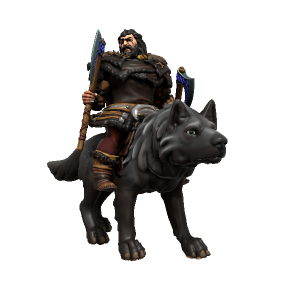
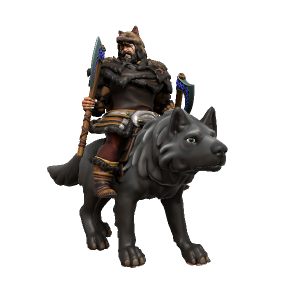
Uthgardt pictures

Changed region(s): [[0.15, 0.09, 0.78, 0.9]]

diff --git a/people.html b/people.html
@@ -88,7 +88,8 @@
     <section class="wiki-page">
       <h1 id="uthgardt">Uthgardt</h1>
 
-      <h3 id='haesta-þrumsdottr'>Fylkir Hæesta Þrumsdottr</h3>
+      <h3 id='haesta-thrumsdottr'>Fylkir Hæesta Þrumsdottr</h3>
+      <figure class="splashimg"><img src="assets/people/uthgardt/haesta-thrumsdottr.png"></figure>
       <p>The Jarl of the Thunderbeast Tribe is a grim figure, rarely known to smile and certainly never to joke. Even as
         a child, she was strangely quiet and focussed, owing to much of the mythos surrounding her. While she is a
         capable warrior, her real strength lies in strategy: She always seems to be ten steps ahead of her enemy.
@@ -96,7 +97,8 @@
       </p>
 
       <h3 id='slasverd-af-fylkir'>Freyr Slásverd af Fylkir</h3>
-      <p>Few in the land can say a bad word about Fylkir Haesta’s choice of husband, which is in part why he is her
+      <figure class="splashimg"><img src="assets/people/uthgardt/slasverd-af-fylkir.png"></figure>
+      <p>Few in the land can say a bad word about Fylkir Haesta's choice of husband, which is in part why he is her
         choice of husband. This beloved prince of the Sky Pony tribe is a charming, handsome and courageous favourite
         among both his own people and his adopted Thunderbeast kinsmen. How exactly this shining beacon of charm and
         good will maintains a relationship with the grim, serious Fylkir is a mystery, but their union joins together
@@ -105,7 +107,7 @@
 
       <h3 id='vidar-norgandr'>Páfi Viðar Norgandr</h3>
       <figure class="splashimg"><img src="assets/people/uthgardt/vidar-norgandr.png"></figure>
-      <p>Of those who oppose Jarl Haesta&#39;s claim to the Fylkiriate, the most prominent is the Jarl of the Grey Wolf
+      <p>Of those who oppose Jarl Haesta's claim to the Fylkiriate, the most prominent is the Jarl of the Grey Wolf
         Tribe. Vidar is a vicious acolyte of the Old Ways and has more than earned his byname &quot;Norgandr&quot;
         (Beast Of The North). He believes that Uthgar is best revered by tribes adhering to the dogma of their totems,
         and that a central authority of the Uthgardt faith would fundamentally undermine its culture. A physically
@@ -113,6 +115,7 @@
         horses in wolf form.</p>
 
       <h3 id='flugmaer-hrafndottr'>Jarl Flugmær Hrafndottr</h3>
+      <figure class="splashimg"><img src="assets/people/uthgardt/flugmaer-hrafndottr.png"></figure>
       <p>Flugmaer excells at two things: Flying and drinking. A tremendously skilled pilot, she rose to the role of Jarl
         at a young age after her Father, Jarl Hrafn, was shot down by Neverwinter forces during a raid on an outlying
         village. Flugmaer is a firm friend of Jarl Vidar of the Grey Wolf tribe, both politically and personally. While
@@ -120,14 +123,16 @@
         of the Old Ways, their romantic (or, at least, sexual) relationship is no secret.</p>
 
       <h3 id='örmar-silfurorð'>Jarl Örmar Silfurorð</h3>
-      <p>One of the lesser known Uthgardt traditions is the sport of &quot;flyting&quot;, in which participants take
+      <figure class="splashimg"><img src="assets/people/uthgardt/ormar-silfurord.png"></figure>
+      <p>One of the lesser known Uthgardt traditions is the sport of "flyting", in which participants take
         turns exchnging insults and personal jabs until one person surrenders. While there are certainly Uthgardt who
         surpass Jarl Örmar in physical strength, they are absolutely unrivalled at flyting. Their keen gaze and cutting
         wit can reduce even the burliest of bruisers to tears in a matter of minutes. While they acknowledge and offer
-        some support for Jarl Haesta&#39;s claim to the Fylkiriate, they have thus far held themselves back from any
+        some support for Jarl Haesta's claim to the Fylkiriate, they have thus far held themselves back from any
         major military maneuvers, exercising their influence slowly and strategically.</p>
 
       <h3 id='veida-vikinginn'>Jarl Veida Vikinginn</h3>
+      <figure class="splashimg"><img src="assets/people/uthgardt/veida-vikinginn.png"></figure>
       <p>When tucking their children into beds at night, parents along the Sword Coast tell their children stories of
         the fearsom Viking queen. Her red hair like fire, the scar running down the length of her face, her utter
         ruthlessness and lack of a moral compass. In truth, Veida is a fairly personable and honourable sort, who sees
@@ -153,7 +158,7 @@
       <h3 id='thraell-svikari'>Jarl Thraell Svikari</h3>
       <p>Jarl Thraell first came to the Uthgardt lands as a prisoner, but after winning his tournament fight he earned
         membership of the Sky Pony tribe. Those who were there remember a spectacular fight in which the charming,
-        skillful Chondothan captive danced rings around his opponents and left no survivors. Thraell’s talent for
+        skillful Chondothan captive danced rings around his opponents and left no survivors. Thraell's talent for
         spectacle and entertainment helped him quickly advance through this glory-obsessed tribe, eventually challenging
         his Jarl to a Holmgang and taking the Jarlship upon victory. He takes great joy and pride in commentating every
         tournament.</p>
@@ -162,14 +167,14 @@
       <p>Jarl Ormunda takes her name from a particularly odd legend of Uthgar, believed only by the Great Worm tribe:
         That, in addition to slaying the Great Worm at the Spine Of The World, he mated with it. As the only Uthgardt
         tribe with a single interrupted bloodline, Jarls of the Great Worm tribe proudly claim heritage from this
-        mating. Jarl Ormunda is a devout traditionalist, including and especially in the Great Worm Tribe&#39;s strange
+        mating. Jarl Ormunda is a devout traditionalist, including and especially in the Great Worm Tribe's strange
         and unique heritage. Though she is not much of a warrior herself, she is passionate in her defence of the Old
         Ways.</p>
 
       <h3 id='erlen-ornson'>Jarl Erlen Ornson</h3>
       <p>Erlen is a Jarl with ambition. When the lucrative partnership between the Elk and Thunderbeast tribes began to
         bare fruit, he read the writing on the wall and pledged his sword to the same cause as his fierce rivals. A
-        pragmatic and patient leader, he believes that the Griffon tribe&#39;s best days are ahead, and that once the
+        pragmatic and patient leader, he believes that the Griffon tribe's best days are ahead, and that once the
         Uthgardt faith has been reformed they can once again be the major agricultural and economic force in the region.
       </p>
 
